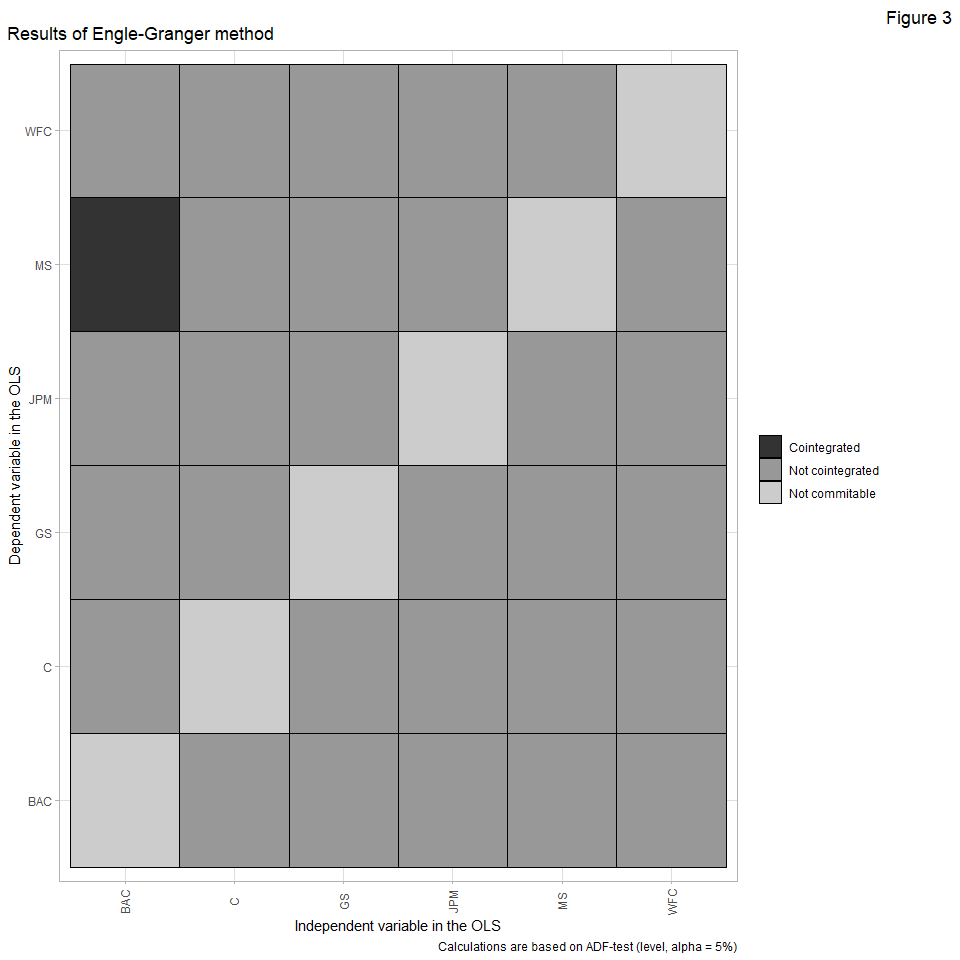
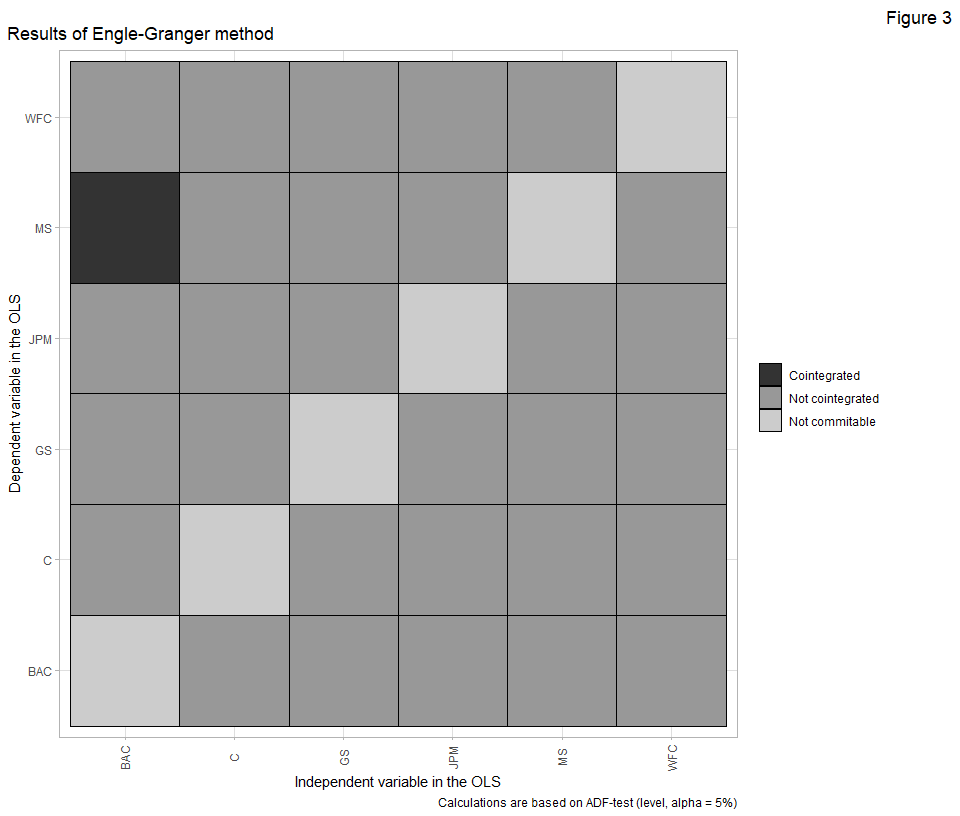
07-16

diff --git a/Exercise-3.md b/Exercise-3.md
@@ -52,7 +52,8 @@ library(urca)
 theme_set(theme_light() + theme(
   legend.title = element_blank(),
   plot.title.position = "plot",
-  plot.tag.position = "topright"
+  plot.tag.position = "topright",
+  plot.caption.position = "plot"
 ))
 load("Exercise-3.RData") # datas from Bankdata.xlsx
 ```
@@ -64,9 +65,10 @@ Bankdata %>%
   pivot_longer(-1) %>%
   ggplot(aes(x = Date, y = value)) +
   geom_line() +
-  facet_wrap(vars(name), nrow = 3, scales = "free") + labs(
-    title =  "Time-series",
-    tag = 'Figure 1', x = "Time", y = "Price"
+  facet_wrap(vars(name), nrow = 3, scales = "free") +
+  labs(
+    title = "Time-series",
+    tag = "Figure 1", x = "Time", y = "Price"
   )
 ```
 
@@ -88,7 +90,9 @@ Bankdata %>%
 ``` r
 Bankdata %>%
   select(-1) %>%
-  apply(2, function(x) {diff(x)}) %>%
+  apply(2, function(x) {
+    diff(x)
+  }) %>%
   data.frame() %>%
   mutate(
     Date = tail(Bankdata$Date, -1)
@@ -96,9 +100,10 @@ Bankdata %>%
   pivot_longer(-Date) %>%
   ggplot(aes(x = Date, y = value)) +
   geom_line() +
-  facet_wrap(vars(name), nrow = 3, scales = "free")+ labs(
-    title =  "First difference of the time-series",
-    tag = 'Figure 2', x = "Time", y = "Price difference"
+  facet_wrap(vars(name), nrow = 3, scales = "free") +
+  labs(
+    title = "First difference of the time-series",
+    tag = "Figure 2", x = "Time", y = "Price difference"
   )
 ```
 
@@ -111,7 +116,7 @@ cointegration_tests <- function(df, test, type, alpha) { # test cointegrity for 
     apply(2, function(x) { # # of differences required for stationarity to each series
       forecast::ndiffs(x, test = test, alpha = alpha, type = type)
     })
-  
+
   v <- df %>% select(-1) %>% # remove year ---> IT MUST BE IN THE INPUT DF !
     names(.)
   df2 <- expand.grid(v, v) %>%
@@ -122,13 +127,13 @@ cointegration_tests <- function(df, test, type, alpha) { # test cointegrity for 
       ndiff = ifelse(ndiff_df[y] == ndiff_df[x], ndiff_df[y], 0),
       ndiff = ifelse(y == x, 0, ndiff) # if series are the same, put 0
     )
-  
+
   v <- vector()
   for (i in seq(nrow(df2))) {
     if (df2[i, 3] != 0) {
       if (lm(y ~ x, data = rename_all(data.frame(y = df[df2[i, 1]], x = df[df2[i, 2]]), funs(c("y", "x")))) %>%
-          broom::augment() %>% .$.resid %>%
-          forecast::ndiffs(test = test, alpha = alpha, type = type) == df2[i, 3] - 1) {
+        broom::augment() %>% .$.resid %>%
+        forecast::ndiffs(test = test, alpha = alpha, type = type) == df2[i, 3] - 1) {
         v[i] <- 2 # 2 ---> series are cointegrated
       } else {
         v[i] <- 1 # 1 ---> not cointegrated, but test is commitable
@@ -166,7 +171,7 @@ cointegration_tests(df = Bankdata, test = "adf", type = "level", 0.05) %>%
     x = "Independent variable in the OLS",
     title = "Results of Engle-Granger method",
     caption = "Calculations are based on ADF-test (level, alpha = 5%)",
-    tag = 'Figure 3'
+    tag = "Figure 3"
   )
 ```
 
@@ -267,19 +272,25 @@ cointegration_tests_rw %>%
     x = "# window",
     caption = "Calculations are based on ADF-test (level, alpha = 5%)\n
     Depedent variables (in the OLS) are placed horizontal, independents are vertical.",
-    tag = 'Figure 4'
+    tag = "Figure 4"
   )
 ```
 
 ![](Exercise-3_files/figure-gfm/unnamed-chunk-10-1.png)<!-- -->
 
 ``` r
-cointegration_tests_rw %>% filter(cointegration == 2) %>% 
-  mutate(cointegration = factor(cointegration)) %>% 
-  group_by(y, x) %>% tally() %>% arrange(x) %>% mutate(
-    n = n/max(cointegration_tests_rw$t),
+cointegration_tests_rw %>%
+  filter(cointegration == 2) %>%
+  mutate(cointegration = factor(cointegration)) %>%
+  group_by(y, x) %>%
+  tally() %>%
+  arrange(x) %>%
+  mutate(
+    n = n / max(cointegration_tests_rw$t),
     n = scales::percent(n, accuracy = .01)
-  ) %>% pivot_wider(id_cols = y, values_from = n, names_from = x, names_prefix = "x = ") %>% arrange(y) %>%
+  ) %>%
+  pivot_wider(id_cols = y, values_from = n, names_from = x, names_prefix = "x = ") %>%
+  arrange(y) %>%
   knitr::kable(caption = "Proportion of test with the result cointegrated")
 ```
 
@@ -293,10 +304,10 @@ Proportion of test with the result cointegrated
 
 ``` r
 merge(expand.grid(1:(nrow(Bankdata) - 249), c(0, 1, 2)) %>% rename_all(funs(c("t", "cointegration"))),
-      cointegration_tests_rw %>% filter(y != x) %>%
-        group_by(t, cointegration) %>%
-        summarise(n = n()),
-      all.x = T
+  cointegration_tests_rw %>% filter(y != x) %>%
+    group_by(t, cointegration) %>%
+    summarise(n = n()),
+  all.x = T
 ) %>%
   mutate(
     n = ifelse(is.na(n), 0, n),
@@ -311,18 +322,20 @@ merge(expand.grid(1:(nrow(Bankdata) - 249), c(0, 1, 2)) %>% rename_all(funs(c("t
   ggplot() +
   geom_area(aes(x = t, y = n, fill = cointegration)) +
   scale_y_continuous(expand = c(0, 0)) +
-  scale_x_date(expand = c(0,0), date_breaks = "1 year", date_labels = "%Y") +
+  scale_x_date(expand = c(0, 0), date_breaks = "1 year", date_labels = "%Y") +
   theme(
     legend.position = "bottom"
-  ) + labs(
+  ) +
+  labs(
     title = "Summary results of Engle-Granger method with rolling window",
     subtitle = "Size of windows = 250",
     y = "# pairs with the result",
     x = "Time (middle of the window)",
     caption = "Calculations are based on ADF-test (level, alpha = 5%).\n
     # total pairs are 6.",
-    tag = 'Figure 5'
-  ) + scale_fill_grey()
+    tag = "Figure 5"
+  ) +
+  scale_fill_grey()
 ```
 
 ![](Exercise-3_files/figure-gfm/unnamed-chunk-12-1.png)<!-- -->
@@ -357,7 +370,13 @@ for (i in 1:(nrow(Bankdata) - 249)) {
 ```
 
 ``` r
-johansen_tests_rw %>%
+  ggplot() +
+    geom_ribbon(aes(
+      x = c(as.Date("2007-12-01"), as.Date("2009-12-01")),
+      ymin = -Inf,
+      ymax = Inf,
+      fill = "recession"), color = "black", alpha = .6) +
+  geom_jitter(data = johansen_tests_rw %>%
   pivot_longer(-1) %>%
   mutate(
     name = case_when(
@@ -366,51 +385,113 @@ johansen_tests_rw %>%
       name == "pct10" ~ "10%"
     ),
     t = as.Date(Bankdata$Date)[t + 125]
-  ) %>% ggplot(aes(x = t, y = value, color = name)) +
-  geom_jitter(width = 0, height = 0.05) +
+  ),
+  aes(x = t, y = value, color = name),width = 0, height = 0.05) +
   scale_color_grey() +
   theme(
     legend.position = "bottom"
   ) +
   scale_y_continuous(breaks = c(0, 1, 2)) +
-  scale_x_date(expand = c(0,0), date_breaks = "1 year", date_labels = "%Y") +
+  scale_x_date(expand = c(0, 0), date_breaks = "1 year", date_labels = "%Y") +
   labs(
-    title = "Results of Johansen-test with rolling window",
+    title = "Results of Johansen-test with rolling window across time",
     subtitle = "Size of windows = 250",
     y = "# cointegrated vectors",
     x = "Time (middle of the window)",
-    caption = "Points are jittered around their true y value for better visualisation
-    (the number of cointegrated vectors is interger).",
-    tag = 'Figure 6'
-  ) + theme(
+    caption = "Points are jittered around their true y value for better visualisation (the number of cointegrated vectors is interger).\n
+    Date of recession is from the National Bureau of Economic Research (https://www.nber.org/cycles.html).",
+    tag = "Figure 6"
+  ) +
+  theme(
     panel.grid.minor.y = element_blank()
-  )
+  ) +
+  scale_fill_manual(values = c("recession" = "#FF5B6B"))
 ```
 
 ![](Exercise-3_files/figure-gfm/unnamed-chunk-14-1.png)<!-- -->
 
 ``` r
-johansen_tests_rw %>% select(-1) %>% gather() %>% mutate(
+johansen_tests_rw %>%
+  select(-1) %>%
+  gather() %>%
+  mutate(
     key = case_when(
       key == "pct1" ~ "1%",
       key == "pct5" ~ "5%",
       key == "pct10" ~ "10%"
     ),
     key = factor(key, levels = c("10%", "5%", "1%"))
-  ) %>% group_by(key,value) %>% 
-  tally() %>% ggplot() + geom_bar(aes(x = key, y=n, fill=factor(value, levels = 2:0)), position = "fill",stat = "identity", color = "black") +
-  scale_y_continuous(labels = scales::percent_format(accuracy = 1), expand = c(0,0), breaks = seq(from = 0, to = 1, by = .1)) + scale_fill_grey() +
+  ) %>%
+  group_by(key, value) %>%
+  tally() %>%
+  ggplot() +
+  geom_bar(aes(x = key, y = n, fill = factor(value, levels = 2:0)), position = "fill", stat = "identity", color = "black") +
+  scale_y_continuous(labels = scales::percent_format(accuracy = 1), expand = c(0, 0), breaks = seq(from = 0, to = 1, by = .1)) +
+  scale_fill_grey() +
   labs(
-    title = "Results of Johansen-test with rolling window",
+    title = "Distribuiton of the Johansen-test results with rolling window",
     x = "Alpha",
     y = "Proportion",
     fill = "# cointegrated vectors",
     subtitle = "Size of windows = 250",
     tag = "Figure 7"
-  ) + theme(
+  ) +
+  theme(
     legend.title = element_text(),
     legend.position = "bottom"
-  )
+  ) 
 ```
 
 ![](Exercise-3_files/figure-gfm/unnamed-chunk-15-1.png)<!-- -->
+
+``` r
+johansen_tests_rw %>%
+  pivot_longer(-1) %>%
+  mutate(
+    name = factor(name, levels = c("pct1", "pct5", "pct10")),
+    t = as.Date(Bankdata$Date)[t + 125],
+    t = ifelse(t > as.Date("2007-12-01") & t < as.Date("2009-12-01"), "recession", "expansion")
+  ) %>% filter(t == "expansion") %>% group_by(name) %>% count(value) %>% pivot_wider(
+    id_cols = value, values_from = n, names_from = name
+  )  %>% mutate(
+    pct1 = scales::percent(pct1/sum(pct1, na.rm = T), accuracy = .01),
+    pct5 = scales::percent(pct5/sum(pct5, na.rm = T), accuracy = .01),
+    pct10 = scales::percent(pct10/sum(pct10, na.rm = T), accuracy = .01)
+  ) %>% rename_all(funs(c("# cointegrated vectors", "1%", "5%", "10%"))) %>% 
+  knitr::kable(caption = "Distribution of Johansen-test results on different alpha during expansion")
+```
+
+| \# cointegrated vectors | 1%     | 5%     | 10%    |
+| ----------------------: | :----- | :----- | :----- |
+|                       0 | 98.42% | 95.88% | 91.58% |
+|                       1 | 1.58%  | 4.12%  | 7.34%  |
+|                       2 | NA     | NA     | 1.08%  |
+
+Distribution of Johansen-test results on different alpha during
+expansion
+
+``` r
+johansen_tests_rw %>%
+  pivot_longer(-1) %>%
+  mutate(
+    name = factor(name, levels = c("pct1", "pct5", "pct10")),
+    t = as.Date(Bankdata$Date)[t + 125],
+    t = ifelse(t > as.Date("2007-12-01") & t < as.Date("2009-12-01"), "recession", "expansion")
+  ) %>% filter(t == "recession") %>% group_by(name) %>% count(value) %>% pivot_wider(
+    id_cols = value, values_from = n, names_from = name
+  )  %>% mutate(
+    pct1 = scales::percent(pct1/sum(pct1, na.rm = T), accuracy = .01),
+    pct5 = scales::percent(pct5/sum(pct5, na.rm = T), accuracy = .01),
+    pct10 = scales::percent(pct10/sum(pct10, na.rm = T), accuracy = .01)
+  ) %>% rename_all(funs(c("# cointegrated vectors", "1%", "5%", "10%"))) %>% 
+  knitr::kable(caption = "Distribution of Johansen-test results on different alpha during recession")
+```
+
+| \# cointegrated vectors | 1%     | 5%     | 10%    |
+| ----------------------: | :----- | :----- | :----- |
+|                       0 | 96.82% | 90.26% | 82.50% |
+|                       1 | 3.18%  | 8.15%  | 15.31% |
+|                       2 | NA     | 1.59%  | 2.19%  |
+
+Distribution of Johansen-test results on different alpha during
+recession
